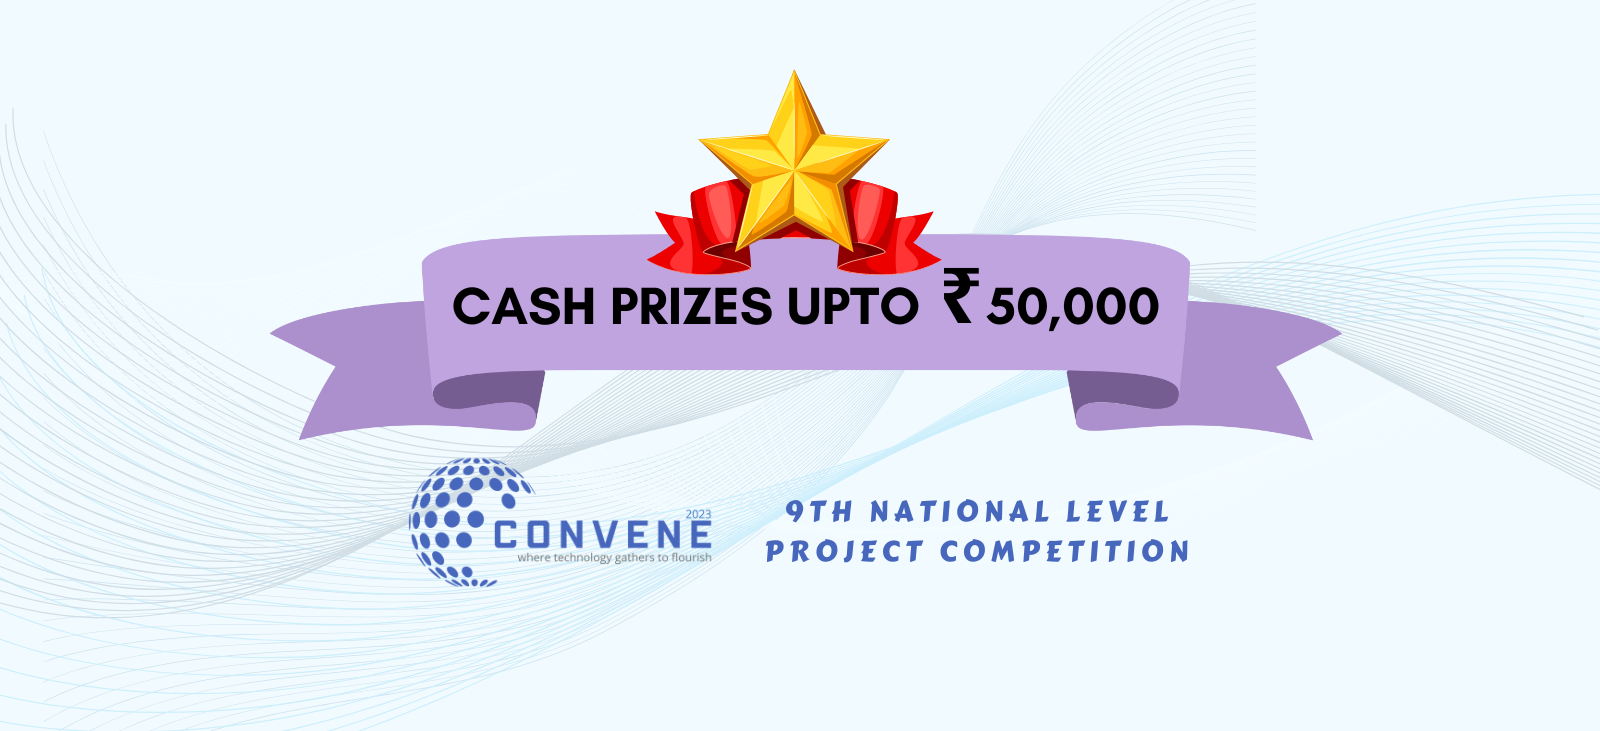
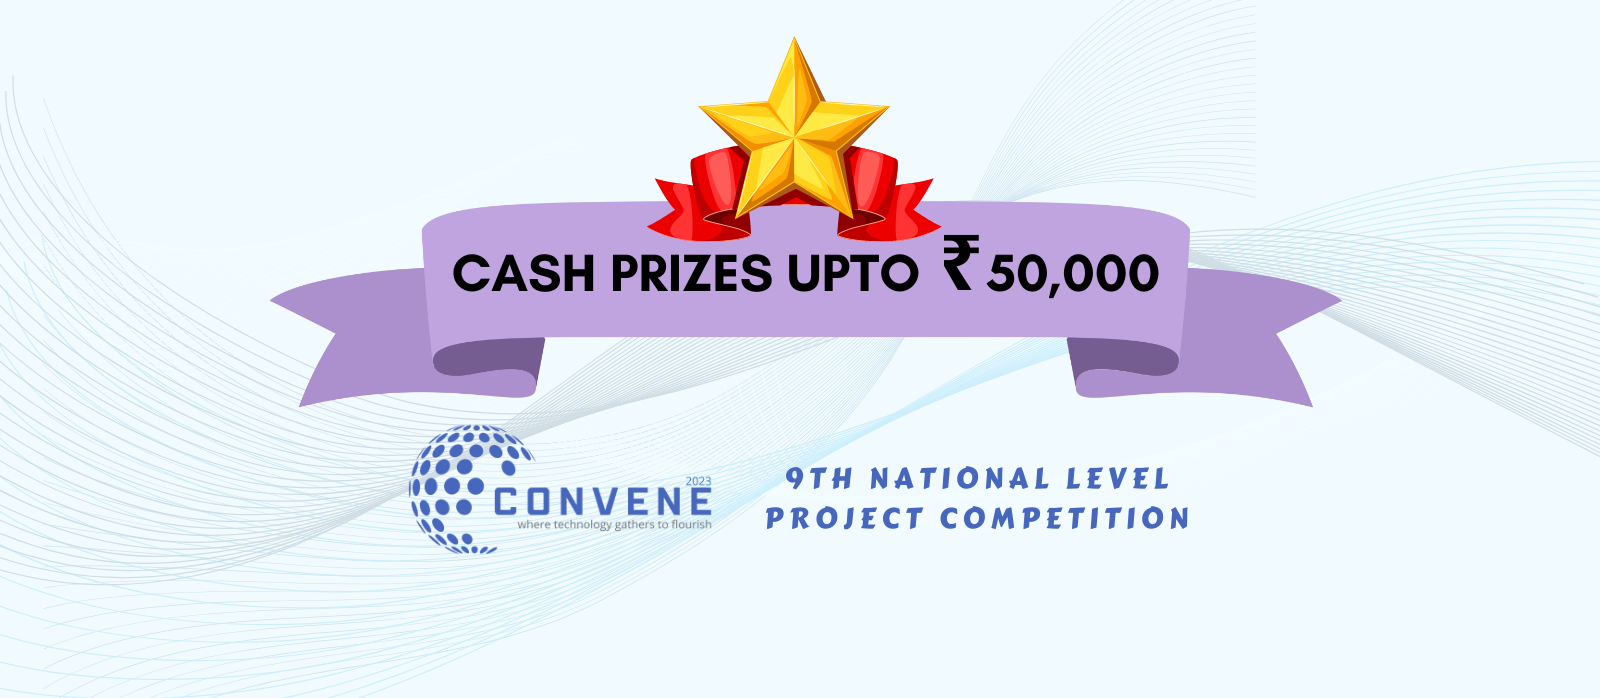
major changes

Changed region(s): [[0.0, 0.0602, 1.0, 0.9628], [0.125, 0.4814, 0.1562, 0.5415], [0.0938, 0.4513, 0.125, 0.4814]]

diff --git a/style.css b/style.css
@@ -219,11 +219,16 @@ header{
     margin-top: 0;
 }
 .aboutUs .content img{
+    position: relative;
+    top: -100px;
+    left: -60px;
     height: auto;
-    width: 500px;
+    width: 600px;
     max-width: 100%;
 }
 .text{
+    position: relative;
+    top: -150px;
     width:450px;
     max-width: 100%;
     padding:0 10px;
@@ -238,12 +243,14 @@ header{
     justify-content: space-around;
 }
 .text h1{
-    font-size:var(--heading-font);
+    font-size:3.57rem;
     margin-bottom:20px;
     text-transform: capitalize;
 }
 .text p{
-    font-size:var(--normal-text-font);
+    position: relative;
+    left: -30px;
+    font-size: 1.23rem;
     line-height: 28px;
     letter-spacing: 1px;
     margin-bottom: 45px;
@@ -276,6 +283,13 @@ header{
 @media screen and  (max-width:650px){
     .aboutUs .content img{
         margin-bottom : 35px;
+        position: relative;
+        top: 0;
+        left: 0px;
+    }
+    .text{
+        position: relative;
+        top: 0px; 
     }
     .text h1{
         text-align: center;
@@ -284,6 +298,8 @@ header{
     }
     .text p{
         font-size: 12px;
+        position: relative;
+        left: 0px;
     }
     .text a{
         position: relative;
@@ -366,10 +382,10 @@ header{
 /* time line */
 .timeline-section{
     position: relative;
-    top: -80px;
+    top: -170px;
 	background-color: #24292d;
 	min-height: 100vh;
-	padding: 25px 15px;
+	
 }
 .timeline-section h2{
     margin-top: 0;
@@ -446,7 +462,8 @@ header{
 @media(max-width:1100px){
     .timeline-section{
         position: relative;
-        top: 30px;
+        top: 50px;
+        margin-bottom: 60px;
     }
     .timeline-section h2{
         font-size: 40px;
@@ -528,6 +545,8 @@ header{
 } */
 /* Registor and download now  */
 .reg-container{
+    position: relative;
+    top: -70px;
     width: 100%;
     height: 50vh;
     display: grid;
@@ -554,13 +573,16 @@ header{
 
 }
 #reg-1 img{
-    width: 40%;
-    margin-left: 25%;
+    width: 25%;
+    margin-left: 35%;
     margin-top: 30px;
 }
 #reg-1 h2{
     margin-top: 36px;
-    margin-left: 25%;
+    margin-left: 35%;
+}
+#h2{
+    margin-top: 10px;
 }
 .reg-box i{
     margin-top: 10px;
@@ -582,7 +604,7 @@ header{
         grid-template-columns: 1fr ;
         column-gap: 5px;
         row-gap: 5px;
-        /* margin-top: 25px; */
+        margin-top: 20px;
     }
     .reg-box{
         margin: none;
@@ -593,8 +615,8 @@ header{
         margin: none;
     }
     #reg-1 img{
-        width:50%;
-        margin-left:25%;
+        width:30%;
+        margin-left:35%;
     }
     #reg-1 h2{
         margin-top: 18px;
@@ -612,6 +634,7 @@ header{
         margin-top: 18px;
     
     }
+
 }
 @media (max-width:395px) {
     .reg-container{
@@ -626,7 +649,8 @@ header{
 /* Cash pricing img */
 .pricing{
     position: relative;
-    top: -70px;
+    /* top: -70px; */
+    top: 10px;
 }
 .pricing img{
     width: 100%;
@@ -635,7 +659,7 @@ header{
 @media(max-width : 1000px){
     .pricing{
         position: relative;
-        top: 40px;
+        top:60px;
     }
 }
 /* Sponsors section styling */

diff --git a/index.html b/index.html
@@ -75,13 +75,12 @@
           <div class="text">
             <h1>About <span class="blue">Us</span></h1>
             <p>
-              <ul style="list-style-type:disc;">
-                <li>> National level Exhibition-cum-project Competition</li>
-                <li>> Intercollegiate project competition of Sinhagad Institutes</li>
-                <li>> Participation of over 150+ Teams</li>
-                <li>> 50+ Teams for Ideas Presentation</li>
-                <li>> Participation of over 25+ Colleges</li>
-              </ul>
+              > National level Exhibition-cum-project Competition <br>
+              > Intercollegiate project competition of Sinhagad Institutes <br>
+              > Participation of over 150+ Teams <br>
+              > 50+ Teams for Ideas Presentation <br>
+              > Participation of over 25+ Colleges <br>
+            
             </p>
             <a href="#knowUs"><button class="btnCnt">Get in Touch</button></a>
           </div>
@@ -231,21 +230,23 @@
       </section> -->
       <section class="reg-container">
         <div id="reg-1" class="reg-box">
-          <a href="">
-            <img src="images/megaphone.jpg" alt="megaphoen" /> <br />
-            <h2>Register Now!!</h2>
+          <a href="https://docs.google.com/forms/d/e/1FAIpQLSfh2lQTlfkQo2ZBavDyL-EoVNvMXh98WbREPMJg-NNft-53lA/viewform" target="_blank">
+            <img src="images/conveneRregCODE.jpeg" alt="megaphoen" /> <br />
+            <h2>Register Now !!  <br>  Scan &nbsp; or &nbsp; Click</h2>
+            
+          
           </a>
         </div>
   
         <div class="reg-box">
-          <a href="www.google.com">
+          <a href="https://drive.google.com/file/d/1IW6ClEcsO_K1xU9ETmpivEJL0uh7CxaM/view?usp=sharing" target="_blank">
             <i class="bx bx-download"></i>
             <h2>Click to get PPT</h2>
           </a>
         </div>
   
         <div class="reg-box">
-          <a href="">
+          <a href="https://drive.google.com/file/d/1IZFemi-rgfNir4S-gk9IA0mdov6vPhtG/view?usp=sharing" target="_blank">
             <i class="bx bx-download"></i>
             <h2>Click to get PDF</h2>
           </a>
